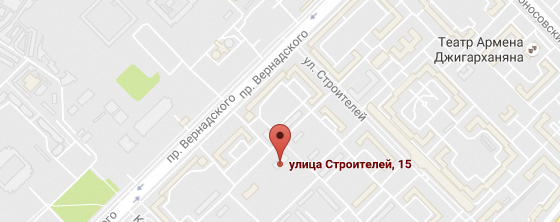
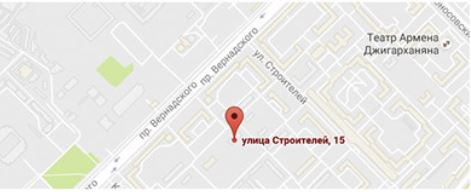
Изменение формата рисунка карты

diff --git a/index.html b/index.html
@@ -194,7 +194,7 @@
             <section>
                 <h2>Контакты</h2>
                 <p>Вы можете забрать товар сами заехав в наш офис. Заодно вы сможете проверить работоспособность покупки. Всякое бывает.</p>
-                <a href="#"><img src="img/map.JPG" alt="мини карта" width="560" heigt="222"></a>
+                <a href="#"><img src="img/map.jpg" alt="мини карта" width="560" heigt="222"></a>
                 <a href="#">Напишите нам</a>
             </section>
         </main>
